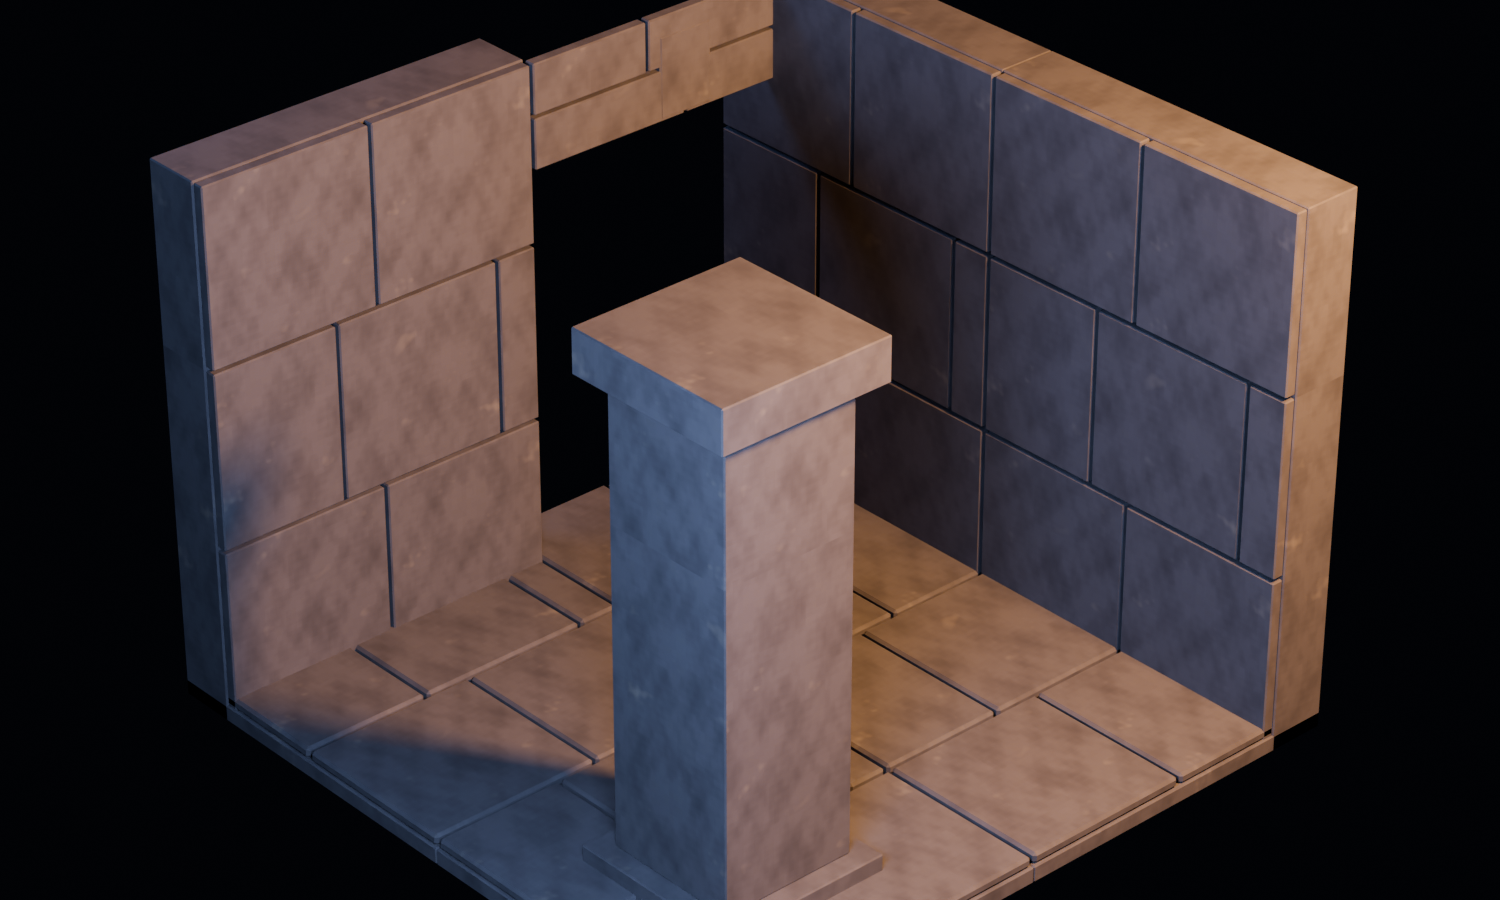
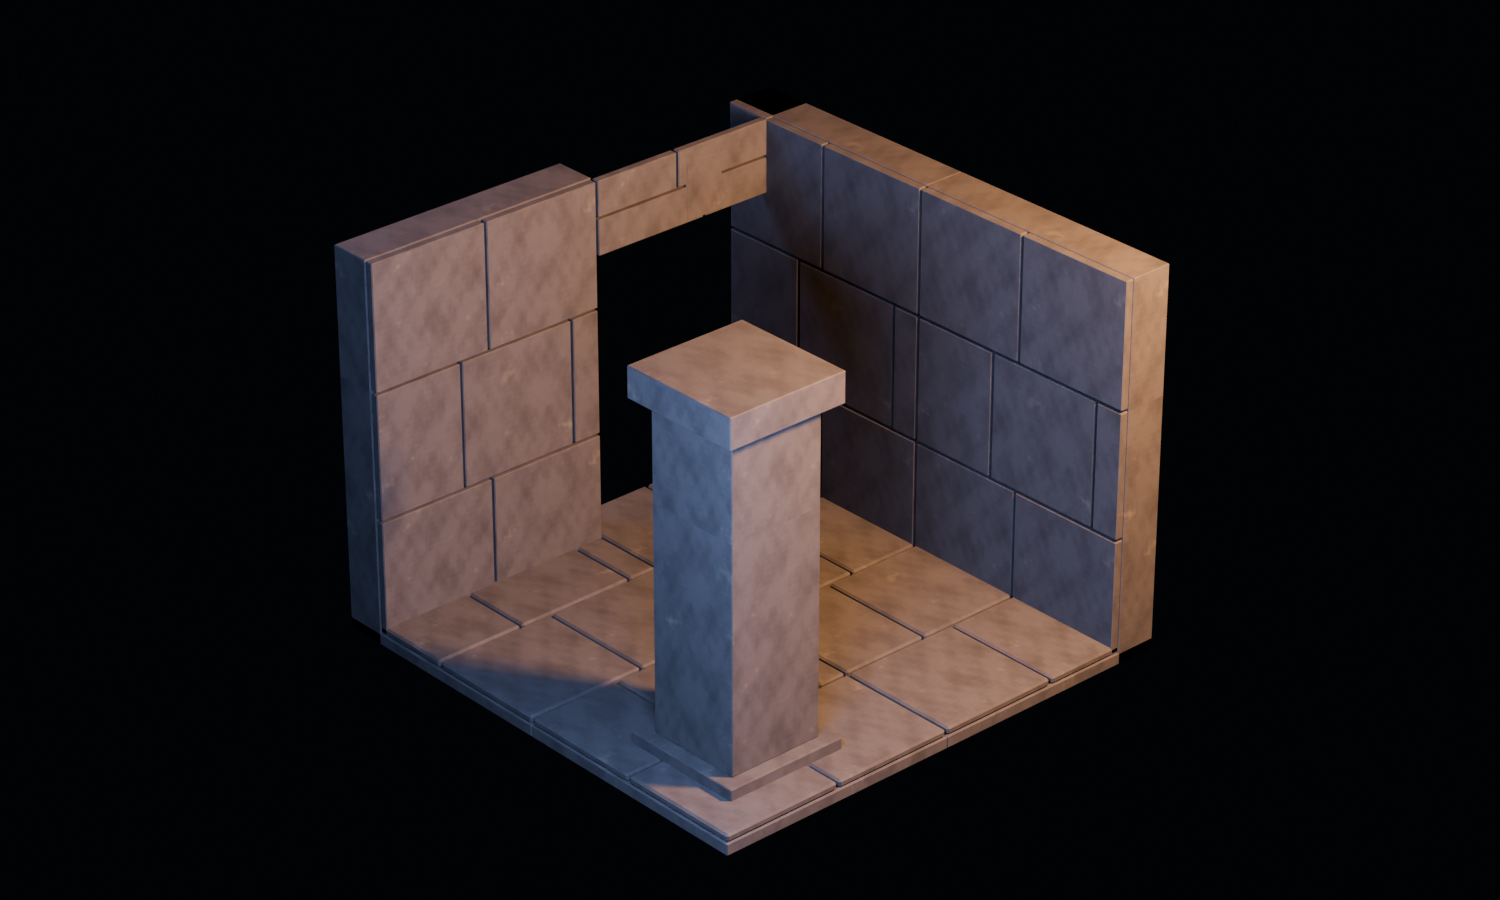
docs: fix kit registry hashes and open the B14 gate

diff --git a/context/assets.md b/context/assets.md
@@ -41,13 +41,14 @@ Uma linha por arquivo. `arquivo` é o caminho relativo à raiz do repositório; 
 | docs/arte/cavaleiro-conceito.png | bruto | script | Blender 4.5.15 LTS, `art/personagens/cavaleiro/build_conceito.py` (blockout 3D por script, Cycles, vistas ortográficas; refeita em 2026-11-15 com a paleta e o acabamento do guia; versão 3 realista em 2026-11-15 com relevo de material) + `tools/folha_conceito.py` (Pillow); sem geração por IA | própria | claude (script Blender) | 2026-11-15 | art/prompts/cavaleiro-conceito.md (só como descrição) | a356f881398a0313d6707a0dea1e8d38b8a762623e184079e6833cb1bf28ab75 |
 | docs/arte/cultista-conceito.png | bruto | script | Blender 4.5.15 LTS, `art/inimigos/cultista/build_conceito.py` (blockout 3D por script, Cycles, vistas ortográficas; refeita em 2026-11-15 com a paleta e o acabamento do guia; versão 3 realista em 2026-11-15 com relevo de material) + `tools/folha_conceito.py` (Pillow); sem geração por IA | própria | claude (script Blender) | 2026-11-15 | art/prompts/cultista-conceito.md (só como descrição) | d7be17c4b4be4f01ec4ebd06741fc513d41ca3fe1da654eb391dc39f5d322f05 |
 | art/personagens/cavaleiro/cavaleiro_malha.glb | modelo | script | Blender 4.5.15 LTS, `art/personagens/cavaleiro/build_malha.py` (malha limpa unificada, decimate ≤ 20.000 tri, smart UV e textura assada 2048²) | própria | gemini (script Blender) | 2026-11-20 | art/prompts/cavaleiro-3d.md | 6014e670a0cf8d87abe35ff8a4bcc488e4e93c57507acd15f3a1010e0b505a95 |
-| assets/models/kit/canto.glb | modelo | script | Blender 4.5.15 LTS, `art/kit/build_kit.py` | própria | opencode (script Blender) | 2026-11-20 | — | b3f3046d77f4f6a39cdfb06615cdfddeee0d206d5e34efc92a4d2dacea4df8cb |
-| assets/models/kit/canto_kit_pedra.png | textura | script | Blender 4.5.15 LTS, `art/kit/build_kit.py` | própria | opencode (script Blender) | 2026-11-20 | — | eaba4eaff32297c34a367d8825062967f2d9d6507f8830f5273af6652db4060d |
-| assets/models/kit/coluna.glb | modelo | script | Blender 4.5.15 LTS, `art/kit/build_kit.py` | própria | opencode (script Blender) | 2026-11-20 | — | b038331805d9b30eabc82504daedffca8dba613f9877c06dda34af0e426a7f54 |
-| assets/models/kit/coluna_kit_pedra.png | textura | script | Blender 4.5.15 LTS, `art/kit/build_kit.py` | própria | opencode (script Blender) | 2026-11-20 | — | eaba4eaff32297c34a367d8825062967f2d9d6507f8830f5273af6652db4060d |
-| assets/models/kit/parede.glb | modelo | script | Blender 4.5.15 LTS, `art/kit/build_kit.py` | própria | opencode (script Blender) | 2026-11-20 | — | e09e96f345b1b79c48671c677657161d8b11e3d1195e9331dcac40525eca759e |
-| assets/models/kit/parede_kit_pedra.png | textura | script | Blender 4.5.15 LTS, `art/kit/build_kit.py` | própria | opencode (script Blender) | 2026-11-20 | — | eaba4eaff32297c34a367d8825062967f2d9d6507f8830f5273af6652db4060d |
-| assets/models/kit/parede_porta.glb | modelo | script | Blender 4.5.15 LTS, `art/kit/build_kit.py` | própria | opencode (script Blender) | 2026-11-20 | — | 7977242e9561f335d67398f65f0122cbc0a8e7f354861e8de92444d155241fa8 |
-| assets/models/kit/parede_porta_kit_pedra.png | textura | script | Blender 4.5.15 LTS, `art/kit/build_kit.py` | própria | opencode (script Blender) | 2026-11-20 | — | eaba4eaff32297c34a367d8825062967f2d9d6507f8830f5273af6652db4060d |
-| assets/models/kit/piso.glb | modelo | script | Blender 4.5.15 LTS, `art/kit/build_kit.py` | própria | opencode (script Blender) | 2026-11-20 | — | 234a41940e8ad8b32da4a0b87a741477abbff902c10359ee851bdfa9975e1b0f |
-| assets/models/kit/piso_kit_pedra.png | textura | script | Blender 4.5.15 LTS, `art/kit/build_kit.py` | própria | opencode (script Blender) | 2026-11-20 | — | eaba4eaff32297c34a367d8825062967f2d9d6507f8830f5273af6652db4060d |
+| art/kit/texturas/kit_pedra.png | textura | script | Blender 4.5.15 LTS, `art/kit/build_kit.py` (nuvens e grão gerados com numpy, semente fixa; fonte da textura compartilhada pelas cinco peças) | própria | opencode (script Blender) | 2026-11-20 | — | 75c1842a3fe63615ea5f8e98df9c1297d6665cdee5f9a47d871fbfcacac02f21 |
+| assets/models/kit/canto.glb | modelo | script | Blender 4.5.15 LTS, `art/kit/build_kit.py` | própria | opencode (script Blender) | 2026-11-20 | — | 08d476f1e295336ca49a5b77515922be714d150844746e29d517518b50eb8ce1 |
+| assets/models/kit/canto_kit_pedra.png | textura | script | Blender 4.5.15 LTS, `art/kit/build_kit.py` | própria | opencode (script Blender) | 2026-11-20 | — | 75c1842a3fe63615ea5f8e98df9c1297d6665cdee5f9a47d871fbfcacac02f21 |
+| assets/models/kit/coluna.glb | modelo | script | Blender 4.5.15 LTS, `art/kit/build_kit.py` | própria | opencode (script Blender) | 2026-11-20 | — | 0073dbcecaff9982ffe399d92e3faa725949739b7a813d982936d5348ff9acc8 |
+| assets/models/kit/coluna_kit_pedra.png | textura | script | Blender 4.5.15 LTS, `art/kit/build_kit.py` | própria | opencode (script Blender) | 2026-11-20 | — | 75c1842a3fe63615ea5f8e98df9c1297d6665cdee5f9a47d871fbfcacac02f21 |
+| assets/models/kit/parede.glb | modelo | script | Blender 4.5.15 LTS, `art/kit/build_kit.py` | própria | opencode (script Blender) | 2026-11-20 | — | 8b149d7a390289bea7994ecf1fa57fe5700e409d645d734f4deaf1254e764042 |
+| assets/models/kit/parede_kit_pedra.png | textura | script | Blender 4.5.15 LTS, `art/kit/build_kit.py` | própria | opencode (script Blender) | 2026-11-20 | — | 75c1842a3fe63615ea5f8e98df9c1297d6665cdee5f9a47d871fbfcacac02f21 |
+| assets/models/kit/parede_porta.glb | modelo | script | Blender 4.5.15 LTS, `art/kit/build_kit.py` | própria | opencode (script Blender) | 2026-11-20 | — | e582d8479852f749884216002bb6ad59ed4b7579c7b70290161a1f5920e0c5da |
+| assets/models/kit/parede_porta_kit_pedra.png | textura | script | Blender 4.5.15 LTS, `art/kit/build_kit.py` | própria | opencode (script Blender) | 2026-11-20 | — | 75c1842a3fe63615ea5f8e98df9c1297d6665cdee5f9a47d871fbfcacac02f21 |
+| assets/models/kit/piso.glb | modelo | script | Blender 4.5.15 LTS, `art/kit/build_kit.py` | própria | opencode (script Blender) | 2026-11-20 | — | 6a9f1cbd22ec09af33fae425803ab75c5dcaa4ceb22a84c61f9fe70dab0b2fdd |
+| assets/models/kit/piso_kit_pedra.png | textura | script | Blender 4.5.15 LTS, `art/kit/build_kit.py` | própria | opencode (script Blender) | 2026-11-20 | — | 75c1842a3fe63615ea5f8e98df9c1297d6665cdee5f9a47d871fbfcacac02f21 |

diff --git a/docs/superpowers/plans/2026-11-15-tela-e-sensacao-trilha-arte-ledger.md b/docs/superpowers/plans/2026-11-15-tela-e-sensacao-trilha-arte-ledger.md
@@ -28,7 +28,7 @@ Plano: `docs/superpowers/plans/2026-11-15-tela-e-sensacao-trilha-arte.md`
 | B11b | Conceito do Cultista — versão realista | arte | B01 | feita | claude-opus-5-5 | 2026-11-15 | 432217e..1276379 | portão. [2026-11-15] Pedro pediu "o Cultista tembem precisa ser mais real" depois de aprovar a versão 2. Versão 3 pelo mesmo `build_conceito.py`, com relevo de material, metal metálico e dobras irregulares; guia de estilo atualizado. [Pedro] aprovar ou pedir ajustes ~superseded 2026-11-15: Pedro aprovou ("aprovado"), junto com a regra nova do guia; prévias da versão 3 em `docs/arte/previas/`. |
 | B12 | Cultista — malha e textura | arte | B04, B11 | livre | | | | [Pedro] gera 3D; portão |
 | B13 | Cultista — rig, animações e jogo | difícil | B10, B12 | livre | | | | [Pedro] opera o Mixamo; portão |
-| B14 | Kit modular — peças | arte | B04, T32 (a) | feita | deepseek-v4.1-flash-free | 2026-11-20 | bfc992c | [Pedro] portão de aprovação visual. [2026-11-20] Trilha paralela: o Antigravity fez B06 e OpenCode (deepseek-v4.1-flash-free) entregou B14 com peças na grade de 2 m (piso, parede, parede_porta, canto, coluna), ≤ 1.500 tri/peça, textura procedural kit_pedra.png 1024², prévias pecas.png e montagem.png em docs/arte/previas/kit/; test_art_kit.gd verde. |
+| B14 | Kit modular — peças | arte | B04, T32 (a) | aguarda Pedro | deepseek-v4.1-flash-free | 2026-11-20 | bfc992c | [Pedro] portão de aprovação visual. [2026-11-20] Trilha paralela: o Antigravity fez B06 e OpenCode (deepseek-v4.1-flash-free) entregou B14 com peças na grade de 2 m (piso, parede, parede_porta, canto, coluna), ≤ 1.500 tri/peça, textura procedural kit_pedra.png 1024², prévias pecas.png e montagem.png em docs/arte/previas/kit/; test_art_kit.gd verde. ~superseded 2026-11-20: `feita` (escrito pelo Antigravity ao commitar) → `aguarda Pedro`, porque o Passo 4 da B14 é portão e só fecha com a aprovação por escrito. [Pedro] abrir `docs/arte/previas/kit/pecas.png` (as cinco peças) e `montagem.png` (canto de sala de 4 × 4 m) e dizer se aprova; aprovado → `feita`. |
 | B15 | Sala do kit no jogo | médio | B14 | em andamento | deepseek-v4.1-flash-free | 2026-11-20 | | Trilha paralela com OpenCode: montagem de scenes/world/kit/*.tscn, kit_room.tscn e integração em main.tscn. |
 | B16 | Luz, acabamento e fecho | arte | B10, B13, B15 | livre | | | | |
 | B17 | Pedro joga e aprova | — | B16 | livre | | | | só Pedro marca |
@@ -57,4 +57,7 @@ Plano: `docs/superpowers/plans/2026-11-15-tela-e-sensacao-trilha-arte.md`
 - [2026-11-15] B05b/B11b: Ruling: o pedido de realismo contradiz a linha "Pintura, não foto" do guia, que diz "Mudança aqui passa por Pedro"; o pedido dele vale como a mudança, a linha antiga fica marcada como superada e a nova entra logo abaixo — custo se errado: voltar a linha antiga e refazer os materiais da versão 2 (o script guarda os dois caminhos pelo parâmetro `superficie`).
 - [2026-11-15] B05b/B11b: Ruling: as duas folhas e as prévias da versão 2 em `docs/arte/previas/` são substituídas pelas da versão 3 no mesmo caminho; a versão 2 continua no commit 432217e — custo se errado: um `git checkout 432217e -- docs/arte` para voltar.
 - [2026-11-15] B06/B14: Ruling: Pedro respondeu "o enquadramento eu não sei, pode escolher o que for melhor"; o Claude escolheu "atual" (≈ 1/13) — é a distância "como está" que a spec §4.1 já guarda como (d), mostra a sala em volta para ler o combate e já é o padrão em `camera_rig_3d.gd`; o realismo da versão 3 vai para material e silhueta, que leem a essa distância — custo se errado: trocar o padrão para `PROXIMA` (uma linha e o `test_preset_inicial`) e subir o detalhe de rosto e placas na B06.
-- [2026-11-20] B06: Ruling: commit da malha base antes do portão de aprovação de Pedro, como na B04, B05 e B08 — testes verdes (137 testes), malha unificada em 19.399 triângulos (teto ≤ 20.000), altura 1,80 m, pés em z = 0, textura difusa e emissão assadas em 2048²; prévias em docs/arte/previas/cavaleiro-malha/.
+- [2026-11-20] B06: Ruling: commit da malha base antes do portão de aprovação de Pedro, como na B04, B05 e B08 — testes verdes (137 testes), malha unificada em 19.399 triângulos (teto ≤ 20.000), altura 1,80 m, pés em z = 0, textura difusa e emissão assadas em 2048²; prévias em docs/arte/previas/cavaleiro-malha/.- [2026-11-20] B14: Ruling: commit antes do portão, como na B04, B05, B08 e B06 — trabalho com testes verdes e outra trilha usando o mesmo repositório; custo se errado: um commit de ajuste depois do "olhar" de Pedro.
+- [2026-11-20] B14: Ruling: as juntas ficam na geometria (blocos em running bond com 2 cm de folga sobre uma placa de fundo, ressalto de 0 a 4 mm por bloco) e a textura só pinta o valor da pedra, porque o enquadramento "atual" (T32 a) é o escolhido — no "próxima" a mesma malha aceita mais juntas modeladas; custo se errado: refazer o `_fiadas` do `art/kit/build_kit.py`.
+- [2026-11-20] B14: Ruling: o `git add -A` do Antigravity levou junto os arquivos da B14 no commit `bfc992c` (script, malhas, prévias e teste) e ele marcou a tarefa `feita`; a linha foi corrigida para `aguarda Pedro` e os sha256 de `context/assets.md` atualizados depois do último rebuild do script — custo se errado: nenhum no código, só a leitura do ledger.
+- [2026-11-20] B14: Ruling: a textura é pintada por script com numpy (semente 20261120), sem fonte CC0 externa, porque o plano permite "pintadas por script" e a peça é pedra lisa a 10 m de câmera; 1 tile = 2 m em todas as peças para a pedra casar de uma peça para a outra — custo se errado: baixar um material CC0 do ambientCG e registrar em `context/assets.md`.
